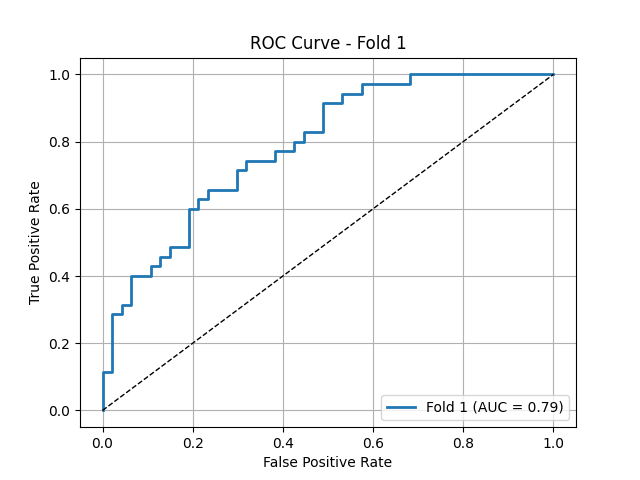
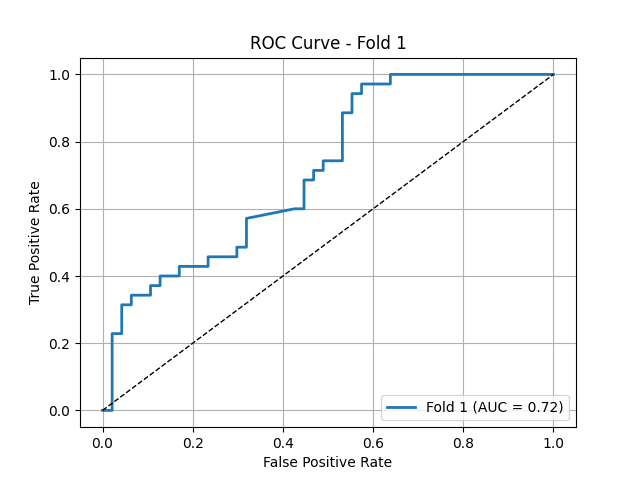
score 0.6 sore1 0.5 and rest are all 1

diff --git a/multi_head_models.py b/multi_head_models.py
@@ -344,7 +344,7 @@ class BinaryClassification(pl.LightningModule):
             x, y = batch 
             y2 = y.unsqueeze(-1).repeat((1, self.output_size))
             scores, scores_tail = self.forward(x)  
-            loss = self.loss_fn(scores, y.float())*0.1 + self.loss_fn(scores_tail[0], y2.float())*0.5 + \
+            loss = self.loss_fn(scores, y.float())*0.6 + self.loss_fn(scores_tail[0], y2.float())*0.5 + \
                         self.loss_fn(scores_tail[1], y2.float()) + self.loss_fn(scores_tail[2], y2.float()) + self.loss_fn(scores_tail[3], y2.float()) +\
                         self.loss_fn2(scores, y.float())*0.5 + self.loss_fn2(scores_tail[0], y2.float())*0.8 + \
                         self.loss_fn2(scores_tail[1], y2.float()) + self.loss_fn2(scores_tail[2], y2.float()) + self.loss_fn2(scores_tail[3], y2.float())

diff --git a/train_washu2_classifier_multihead.py b/train_washu2_classifier_multihead.py
@@ -22,7 +22,7 @@ import random
 SEED = 41 
 np.random.seed(SEED); torch.manual_seed(SEED) ; random.seed(SEED); 
 
-max_epochs = 50
+max_epochs = 250
 min_epochs = 1
 batch_size = 32
 check_val_every_n_epoch = 3
